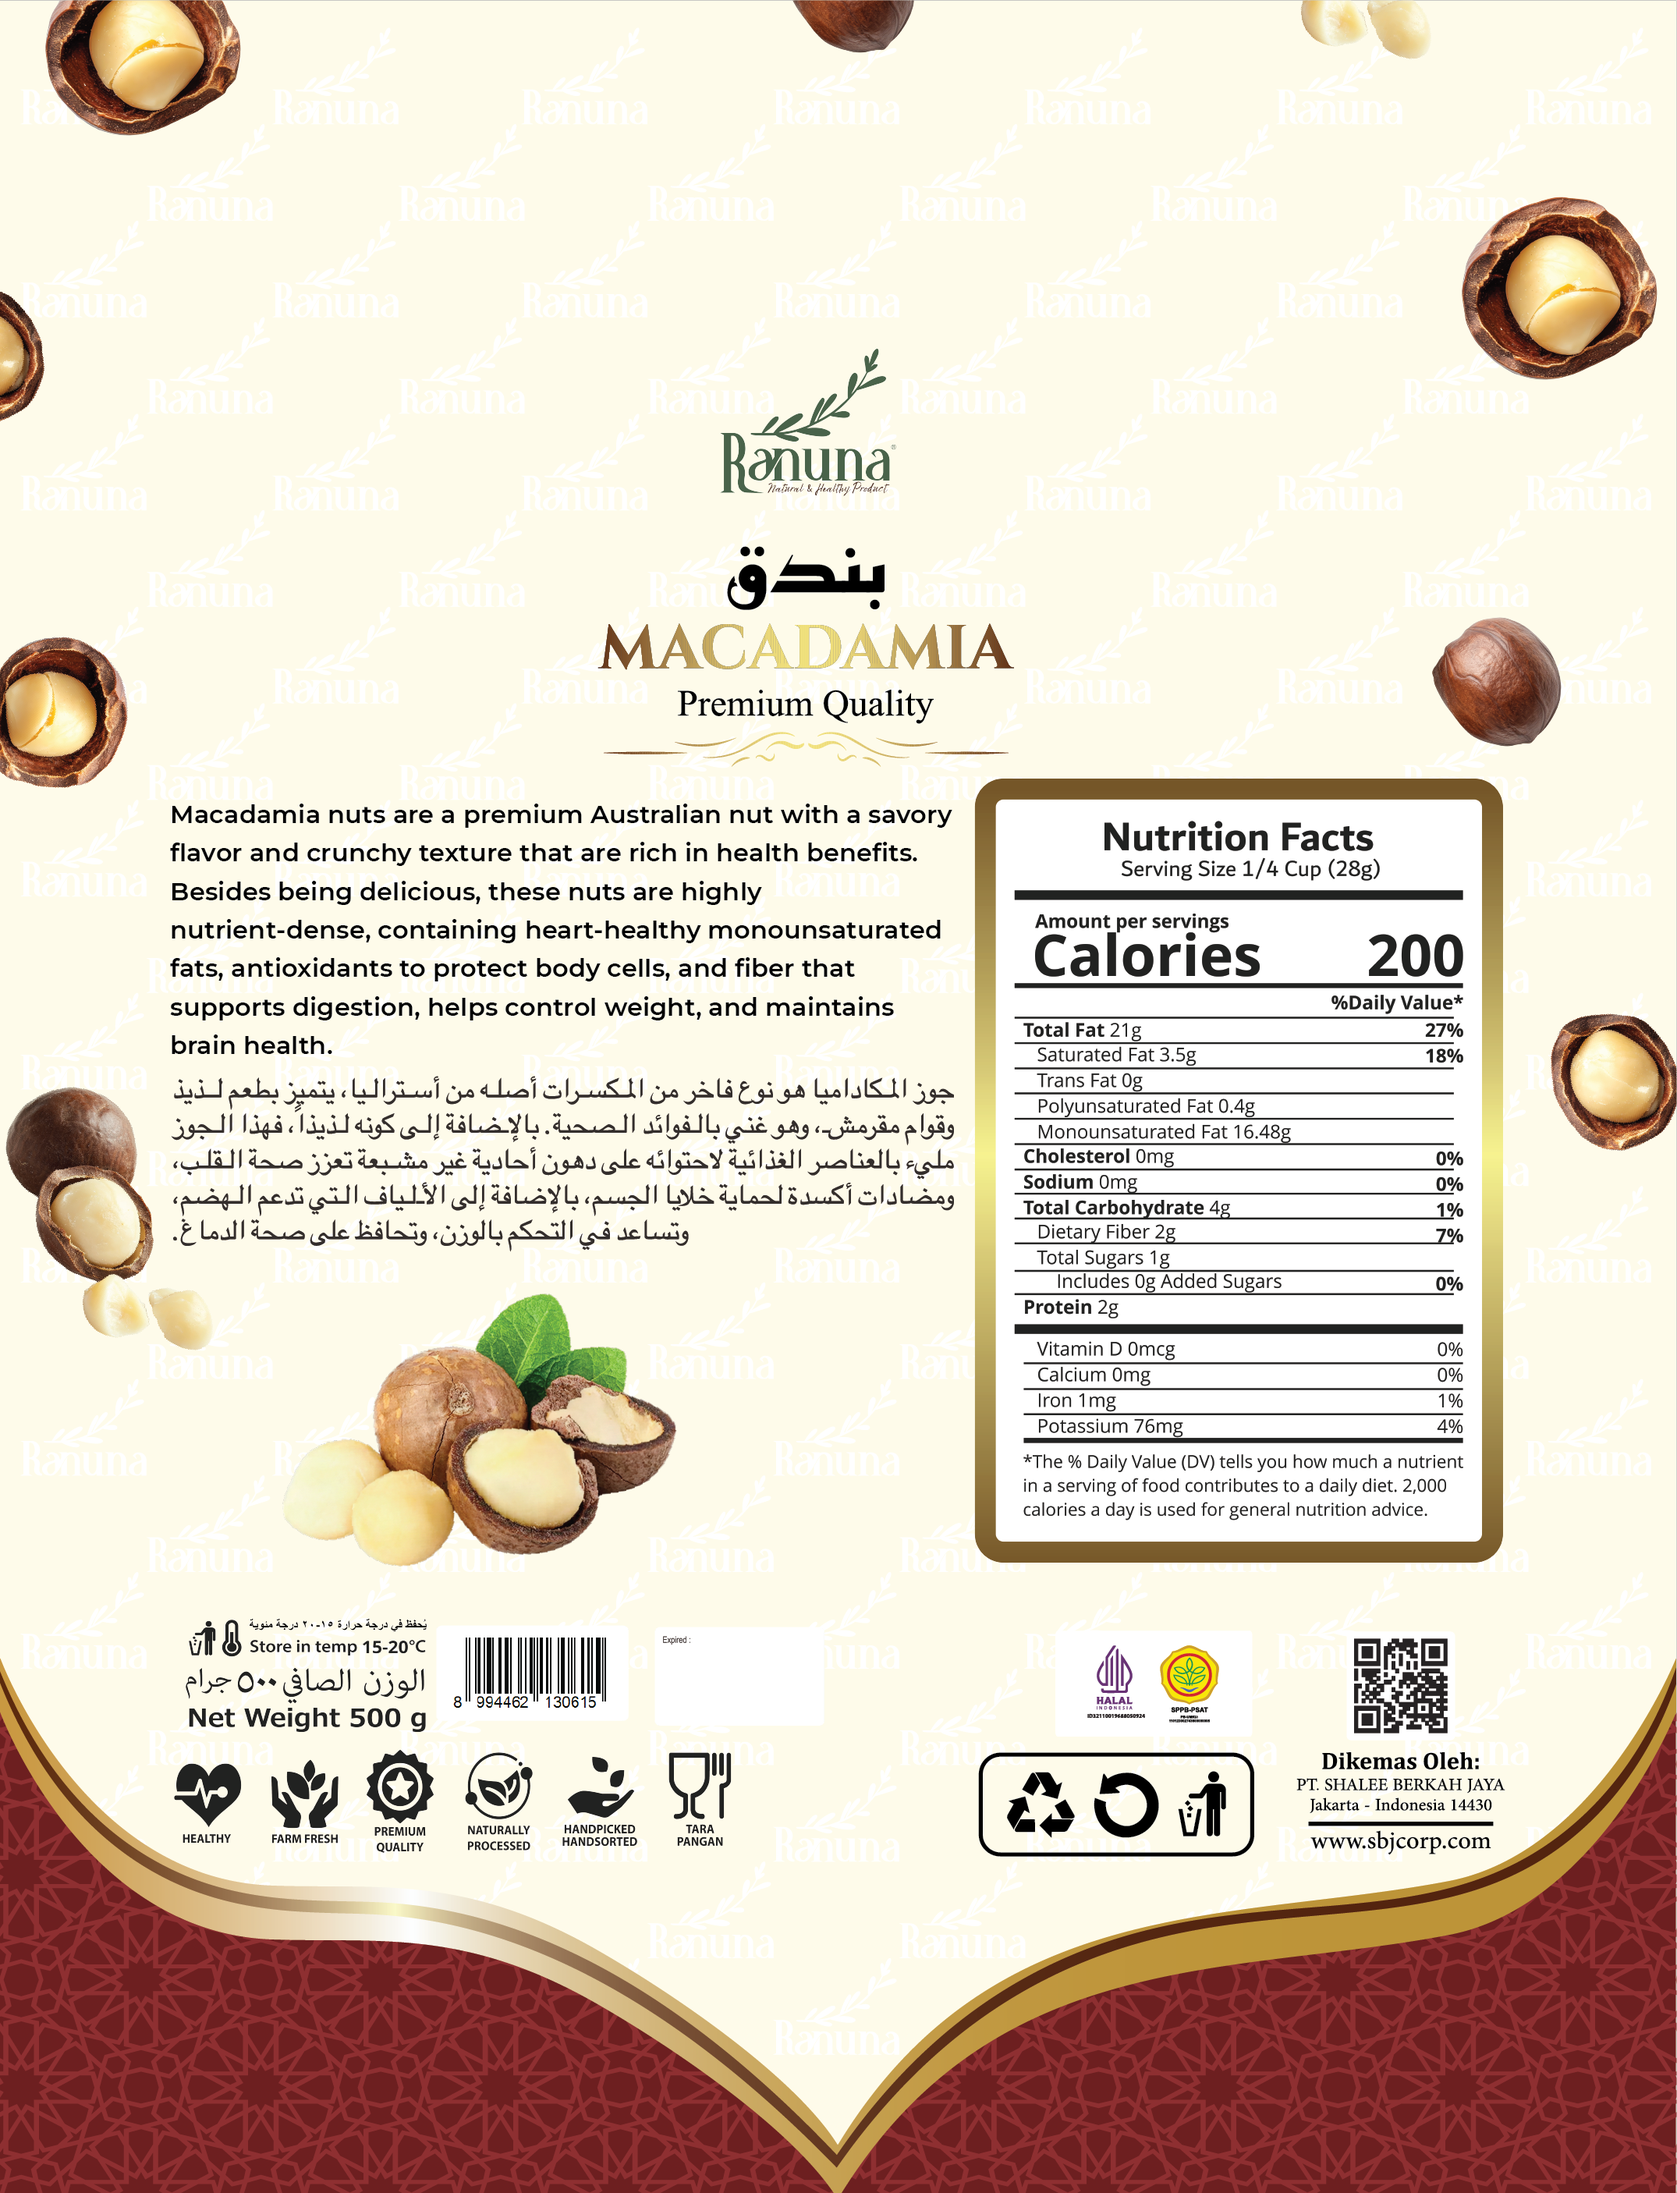
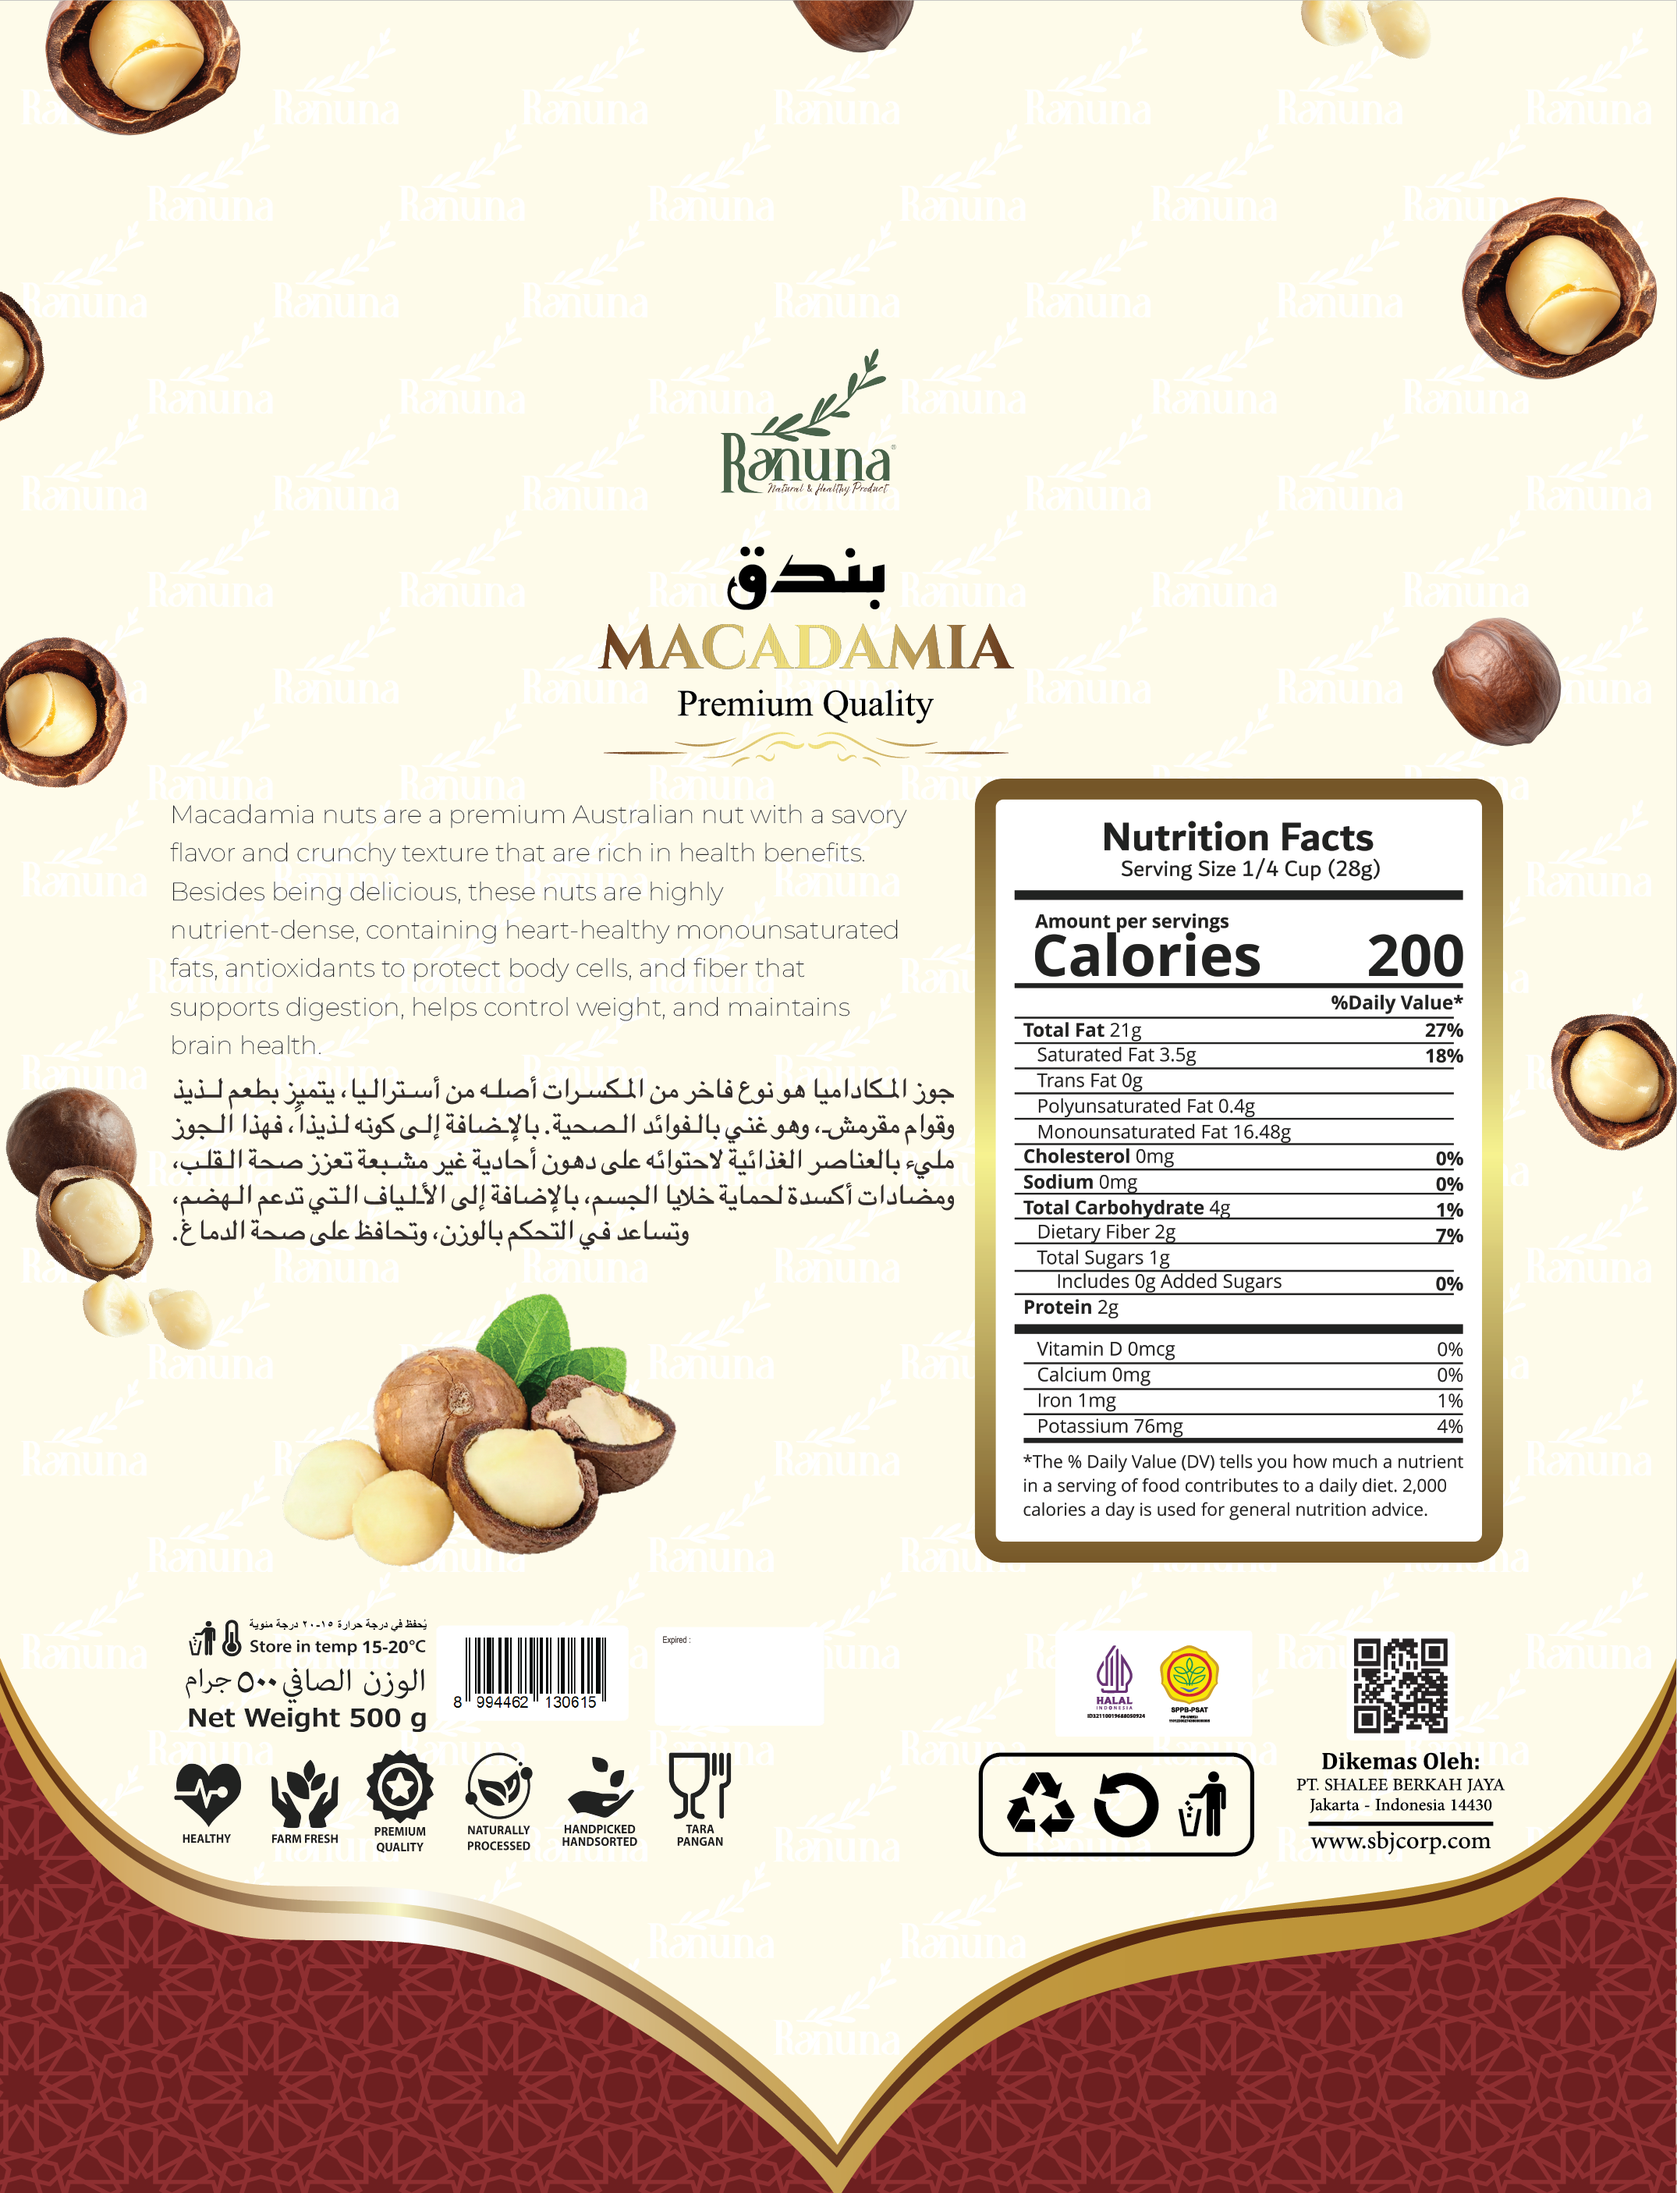
Update mockup images (black raisins, chia seed, gold raisins, macadamia) to new versions and add panduan cetak

Changed region(s): [[0.0935, 0.3714, 0.5609, 0.4952]]

diff --git a/black-raisins.html b/black-raisins.html
@@ -24,7 +24,7 @@
         </div>
 
         <div class="gallery-grid">
-            <div class="gallery-item"><img src="design/Mockup black raisins.png" alt="Mockup Black Raisins"></div>
+            <div class="gallery-item"><img src="design/Mockup black raisins new.png" alt="Mockup Black Raisins"></div>
             <div class="gallery-item"><img src="design/Black Raisins 250gr-500gr pouch final-01.png" alt="Black Raisins 1"></div>
             <div class="gallery-item"><img src="design/Black Raisins 250gr-500gr pouch final-02.png" alt="Black Raisins 2"></div>
             <div class="gallery-item"><img src="design/Black Raisins 250gr-500gr pouch final-03.png" alt="Black Raisins 3"></div>

diff --git a/gold-raisins.html b/gold-raisins.html
@@ -24,7 +24,7 @@
         </div>
 
         <div class="gallery-grid">
-            <div class="gallery-item"><img src="design/Mockup gold raisins.png" alt="Mockup Gold Raisins"></div>
+            <div class="gallery-item"><img src="design/Mockup gold raisins new.png" alt="Mockup Gold Raisins"></div>
             <div class="gallery-item"><img src="design/Gold Raisins 250gr-500gr pouch FINAL-01.png" alt="Gold Raisins 1"></div>
             <div class="gallery-item"><img src="design/Gold Raisins 250gr-500gr pouch FINAL-02.png" alt="Gold Raisins 2"></div>
             <div class="gallery-item"><img src="design/Gold Raisins 250gr-500gr pouch FINAL-03.png" alt="Gold Raisins 3"></div>

diff --git a/macadamia.html b/macadamia.html
@@ -24,7 +24,7 @@
         </div>
 
         <div class="gallery-grid">
-            <div class="gallery-item"><img src="design/Mockup macadamia.png" alt="Mockup Macadamia"></div>
+            <div class="gallery-item"><img src="design/Mockup macadamia new.png" alt="Mockup Macadamia"></div>
             <div class="gallery-item"><img src="design/Macadamia 250gr-500gr pouch Finall-01.png" alt="Macadamia 1"></div>
             <div class="gallery-item"><img src="design/Macadamia 250gr-500gr pouch Finall-02.png" alt="Macadamia 2"></div>
             <div class="gallery-item"><img src="design/Macadamia 250gr-500gr pouch Finall-03.png" alt="Macadamia 3"></div>

diff --git a/chia-seed.html b/chia-seed.html
@@ -24,7 +24,7 @@
         </div>
 
         <div class="gallery-grid">
-            <div class="gallery-item"><img src="design/Mockup chia seed.png" alt="Mockup Chia Seed"></div>
+            <div class="gallery-item"><img src="design/Mockup chia seed new.png" alt="Mockup Chia Seed"></div>
             <div class="gallery-item"><img src="design/ChiaSeed 250gr-500gr pouch Finall-01.png" alt="Chia Seed 1"></div>
             <div class="gallery-item"><img src="design/ChiaSeed 250gr-500gr pouch Finall-02.png" alt="Chia Seed 2"></div>
             <div class="gallery-item"><img src="design/ChiaSeed 250gr-500gr pouch Finall-03.png" alt="Chia Seed 3"></div>
